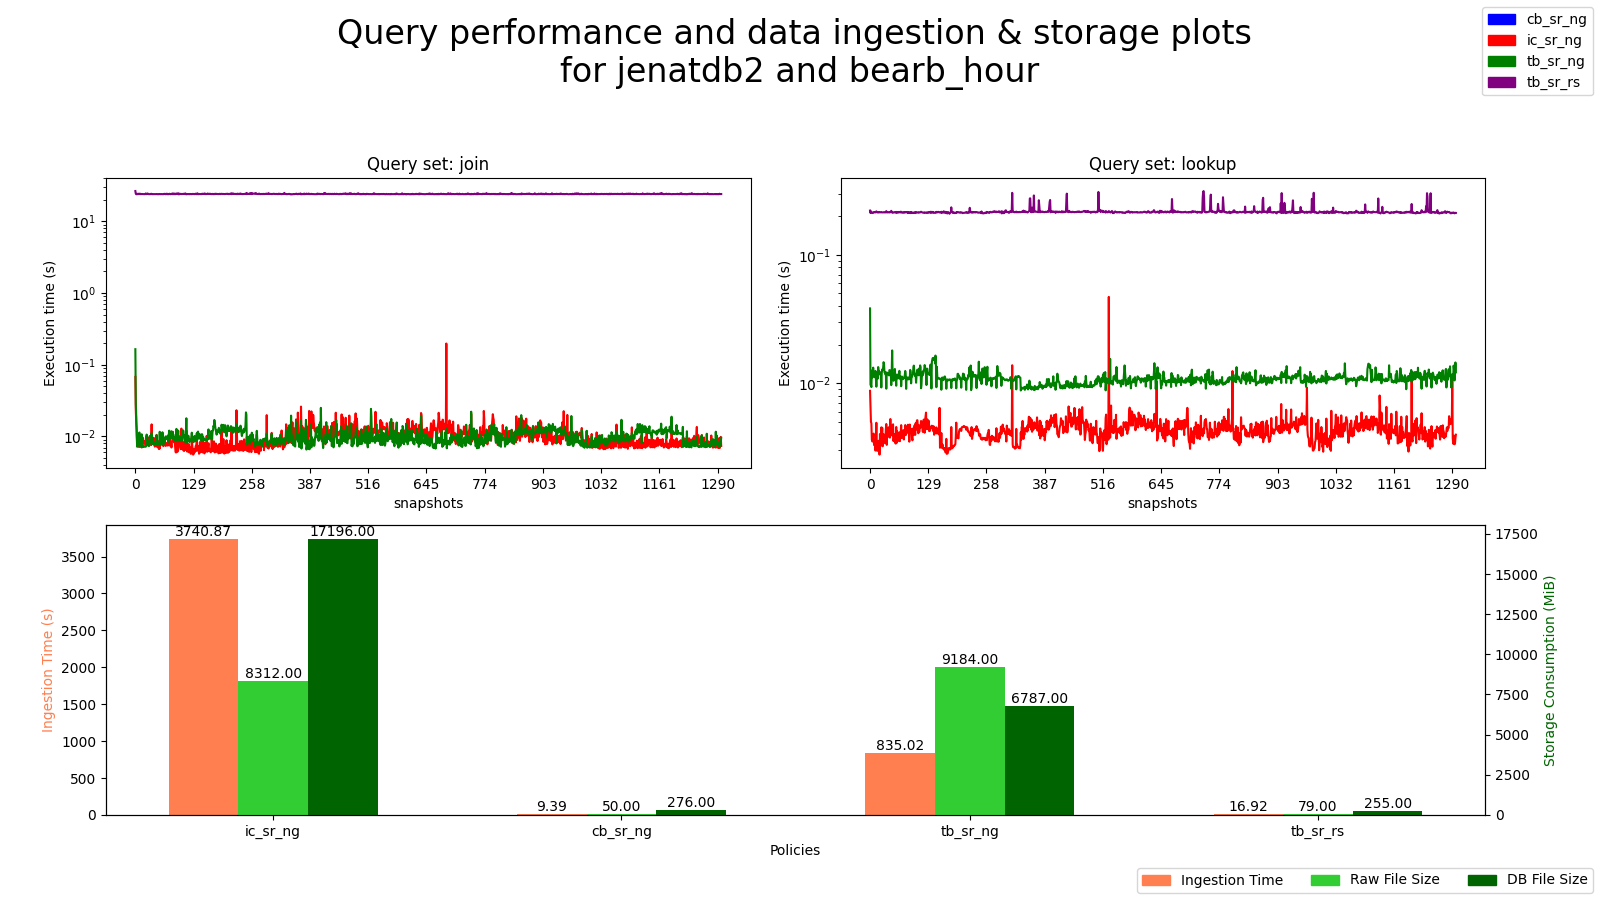
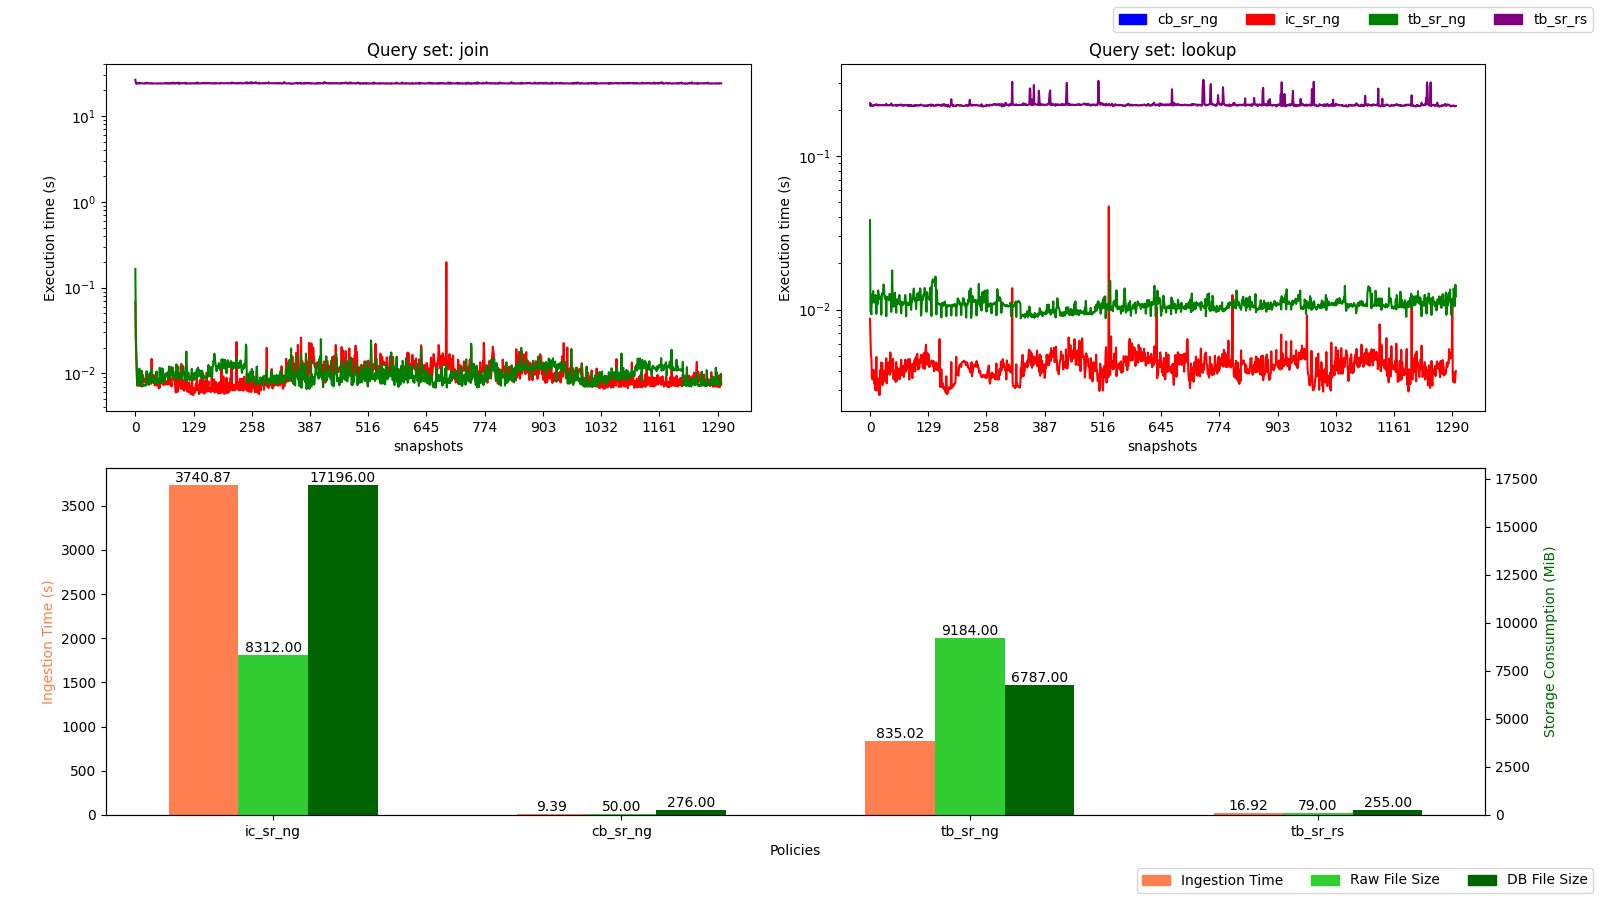
remove title of figures

diff --git a/scripts_dev/7_visualize/visualize.py b/scripts_dev/7_visualize/visualize.py
@@ -136,10 +136,10 @@ def create_plots(triplestore: str, dataset: str):
     fixed_labels = ['coral_patch', 'limegreen_patch', 'darkgreen_patch']
 
 
-    fig.legend(loc="upper right", ncol=1, handles=sorted(handles1, key=lambda x: x.get_label()))
+    fig.legend(loc="upper right", ncol=4, handles=sorted(handles1, key=lambda x: x.get_label()))
     fig.legend(loc="lower right", ncol=3, handles=sorted(handles2, key=lambda x: fixed_labels.index(x.get_label()) if x.get_label() in fixed_labels else len(fixed_labels)))
 
-    fig.suptitle(f"Query performance and data ingestion & storage plots \nfor {triplestore} and {dataset}", fontsize=24)
+    #fig.suptitle(f"Query performance and data ingestion & storage plots \nfor {triplestore} and {dataset}", fontsize=24)
     fig.set_figheight(9)
     fig.set_figwidth(16)
 
